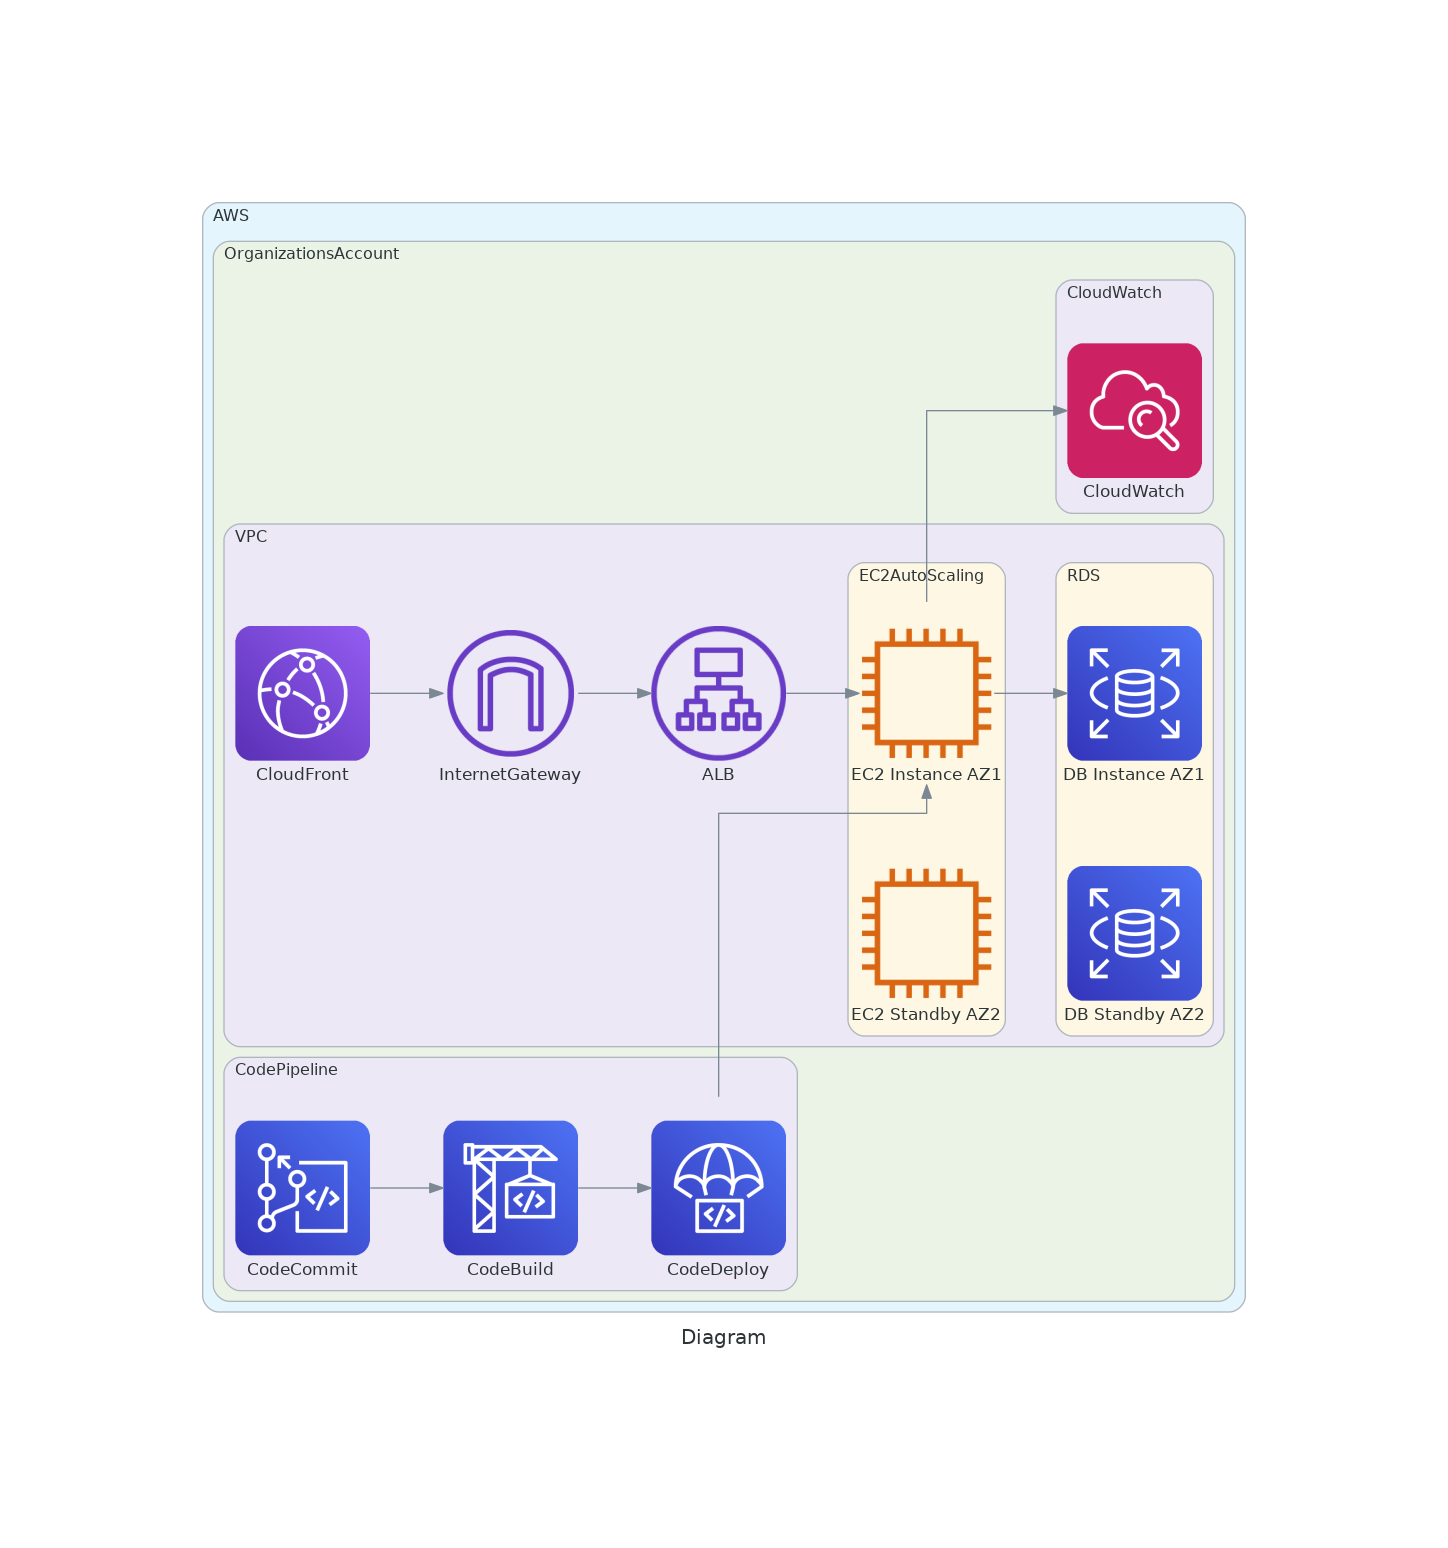
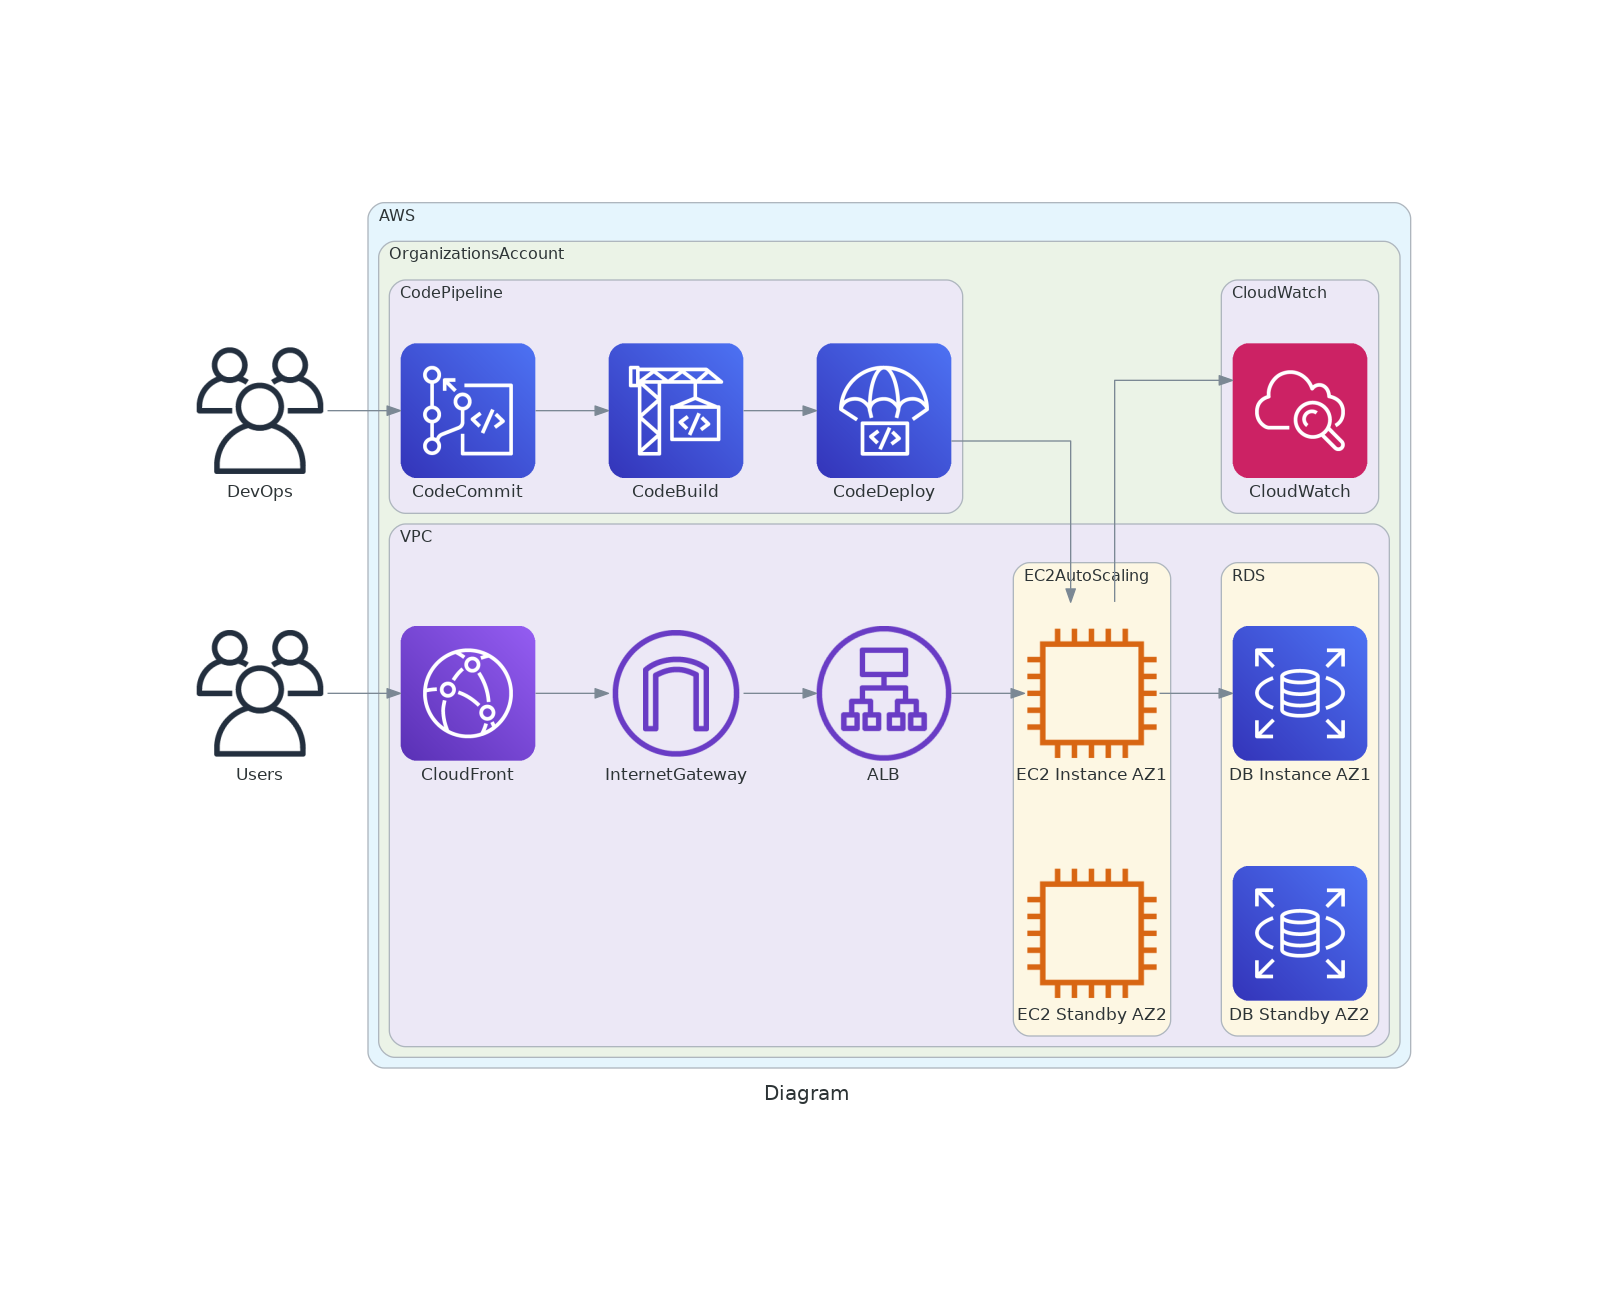
commit

Changed region(s): [[0.1243, 0.1227, 0.9012, 0.8896], [0.3729, 0.2454, 0.4662, 0.3988]]

diff --git a/diagram.py b/diagram.py
@@ -4,8 +4,12 @@ from diagrams.aws.compute import EC2AutoScaling, EC2Instance
 from diagrams.aws.database import RDS
 from diagrams.aws.devtools import Codepipeline, Codecommit, Codebuild, Codedeploy
 from diagrams.aws.management import OrganizationsAccount, Cloudwatch
+from diagrams.aws.general import Users
 
 with Diagram("Diagram", direction="LR", show=False):
+
+    DevOps = Users("DevOps")
+    Users = Users("Users")
 
     with Cluster("AWS"):
 
@@ -19,13 +23,13 @@ with Diagram("Diagram", direction="LR", show=False):
                     EC2Instance = [EC2Instance("EC2 Instance AZ1"), EC2Instance("EC2 Standby AZ2")]
                 with Cluster("RDS"):
                     RDS = [RDS("DB Instance AZ1"), RDS("DB Standby AZ2")]      
-                CloudFront >> InternetGateway >> ALB >> EC2Instance[0] >> RDS[0]
+                Users >> CloudFront >> InternetGateway >> ALB >> EC2Instance[0] >> RDS[0]
 
             with Cluster("CodePipeline"):
                 Codecommit = Codecommit("CodeCommit")
                 Codebuild = Codebuild("CodeBuild")
                 Codedeploy = Codedeploy("CodeDeploy")
-                Codecommit >> Codebuild >> Codedeploy >> EC2Instance[0]
+                DevOps >> Codecommit >> Codebuild >> Codedeploy >> EC2Instance[0]
 
             with Cluster("CloudWatch"):
                 Cloudwatch = Cloudwatch("CloudWatch")
